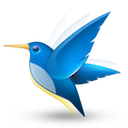
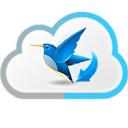
修改了图标, 增加了在安装的时候, 打开设置窗口

diff --git a/js/background.js b/js/background.js
@@ -7,6 +7,9 @@ chrome.contextMenus.create({
     "title": "下载到 Aria2",
     "contexts": ["link", "image", "video", "audio"]
 });
+chrome.runtime.onInstalled.addListener(function(previousVersion){
+    chrome.runtime.openOptionsPage();
+});
 //初始化
 if (!localStorage.serverUrl) {
     localStorage.serverUrl = "http://localhost:6800/jsonrpc";
